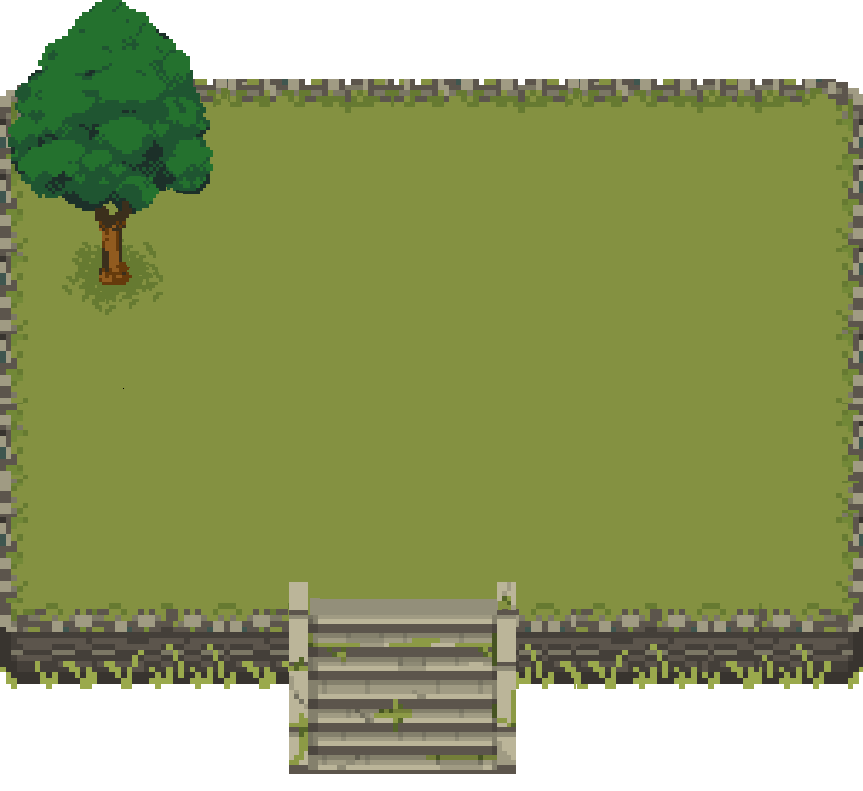
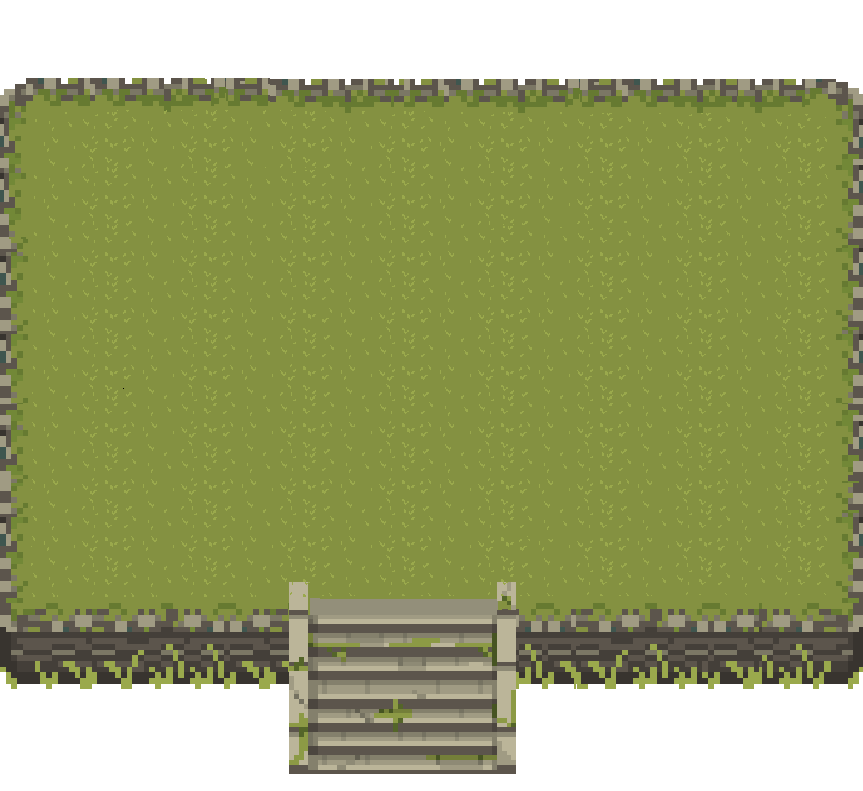
Añadida isla con patito y titulo pixel art

Changed region(s): [[0.0, 0.0, 0.3314, 0.3944]]

diff --git a/src/components/HomePage.js b/src/components/HomePage.js
@@ -10,6 +10,10 @@ const HomePage = () => {
   const [isPopupOpen, setIsPopupOpen] = useState(false);
   const [completedGamesCount, setCompletedGamesCount] = useState(0);
 
+  const getRandomRocaNumber = () => {
+    return Math.floor(Math.random() * 3) + 1;
+  };
+  
   const handleGameClick = (gameId) => {
     const selectedGame = gamesData.find((game) => game.id === gameId);
     setSelectedGame(selectedGame);
@@ -38,14 +42,13 @@ const HomePage = () => {
       .catch((error) => console.error('Error al cargar los datos de juegos de la galería:', error));
   }, []);
 
-  const getRandomRocaNumber = () => {
-    return Math.floor(Math.random() * 3) + 1;
-  };
+
+
   return (
     <div className="page-background">
-      <img src="/LOGO2.png" alt="Logo de Logros de Lagon" className="logo" />
+      <div className='logo-background'><img src="/LOGO2.png" alt="Logo de Logros de Lagon" className="logo" /></div>
       <div className="card">
-        <h1 id="diarios">LOGROS DIARIOS</h1>
+        <h1 id="diarios"><img src="/titulo1.png"></img></h1>
         {achievementsData.map((achievement) => (
           <div key={achievement.id} className="achievement">
             <div className="roca-image">

diff --git a/src/styles/styles.css b/src/styles/styles.css
@@ -1,9 +1,9 @@
 /* Estilos generales */
 .page-background {
-  background-image: url("../img/background.png");
-  background-size: contain;
-  background-repeat: repeat-y;
-  min-height: 100vh;
+  background-image: url("../img/water1.png");
+  background-repeat: repeat;
+  background-size: 1.5rem;
+
 }
 
 .logo {
@@ -14,14 +14,25 @@
   padding-top: 40px;
   padding-bottom: 20px;
   filter: drop-shadow(5px 5px 7px #1f1e1e);
-  animation: myAnim 4s ease 2s infinite normal both;
+  /*animation: myAnim 4s ease 2s infinite normal both;*/
+}
 
+.logo-background{
+  margin: auto;
+  padding-top: 0rem;
+  padding-right: 3rem;
+  padding-bottom: 3rem;
+  padding-left: 3rem;
+  max-width: 120px;
+  background-image:url("../img/isla2.png");
+  background-repeat: no-repeat;
+  background-size:220px;
 }
 
 .card {
   padding: 20px;
   background-size: cover;
-  max-width: 800px;
+  max-width: 835px;
   margin:auto;
   padding-bottom: 15rem;
   position: relative;
